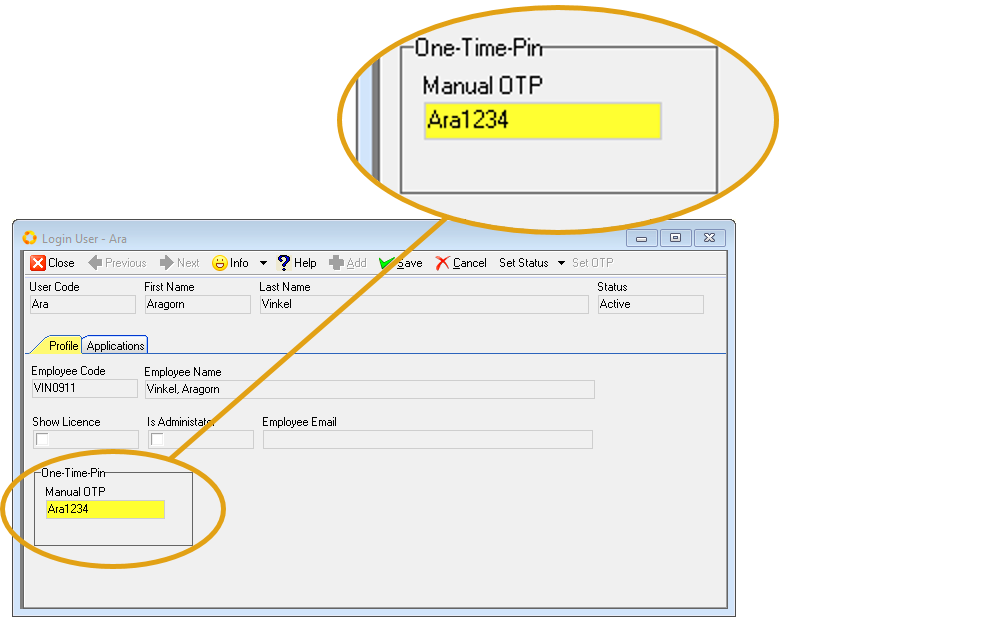
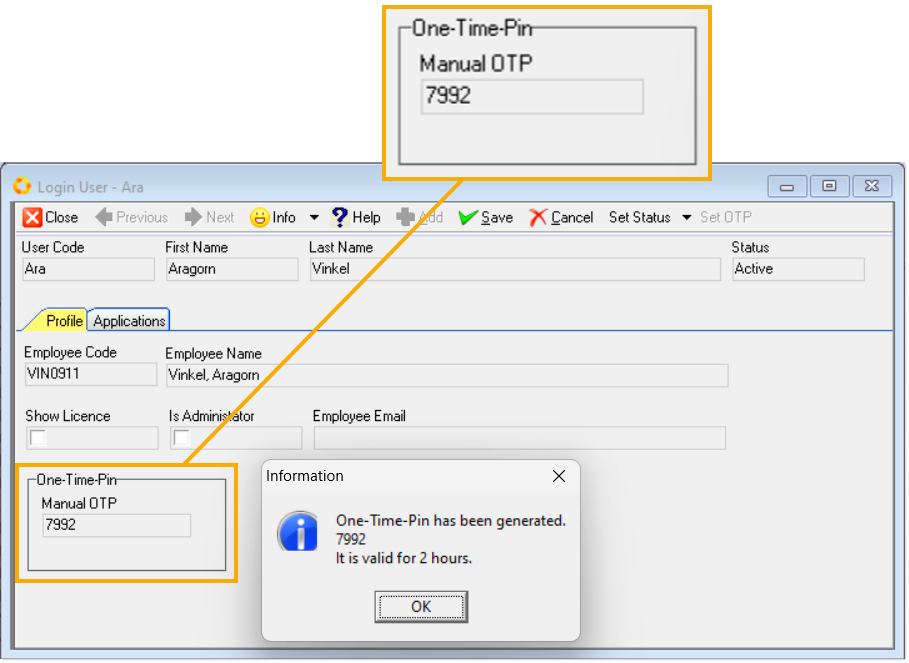
Update Login Users & Employee Position Docs

Changed region(s): [[0.0, 0.0, 1.0, 1.0]]

diff --git a/docs/POS-001.md b/docs/POS-001.md
@@ -36,12 +36,6 @@ The **Position - CEO** screen is displayed.
 
 5.  If needed, change the **Position Name** and **Position Description** as relevant to your company hierarchy, and then click the **Save** button.  
 
-:::important  
-Once saved, the **Task Code** TAB becomes accessible.  
-
-The process of defining Employee Tasks and the associated Task Codes is detailed in the document titled **["Task Codes"](https://sense-i.co/docs/TSKCDE001)**.  
-:::	 
-
 6.  Click the **Activate** button on the form Action Bar.  
 
 7.  Then click the **Close** button.  
@@ -62,11 +56,57 @@ The **Add New Position** screen is displayed.
 
 3. Enter the position description in the **Position Description** field.  
 
-4.  Click the **Save** button, and then click the **Activate** button on the form Action Bar.  
+4.  Click the **Save** button on the form Action Bar.   
+ 
+:::important  
+Once saved, the **Task Code** TAB becomes accessible.
 
-5.  Click the **Close** button to return to the Position grid screen.  
+The process of defining Employee Tasks and the associated Task Codes is detailed in the document titled **["Task Codes"](https://sense-i.co/docs/TSKCDE001)**.  
 
-![](../static/img/docs/POS-001/image07.png)  
+Once all employee Task Codes have been defined, you can link various tasks to the employee position.  
+:::  
+
+5.  Click the **Task Code** TAB.  
+
+![](../static/img/docs/POS-001/image20.png)  
+
+6.  Click the **Link** button.  
+
+The Task Code grid list screen is displayed.  
+
+![](../static/img/docs/POS-001/image21.png)  
+
+7.  Click on the task you want to link to the position.  
+
+8.  Click the **Select** button.  
+  
+:::tip  
+To link multiple tasks, hold down the control key on the keyboard and click on all the tasks you want to link to the position, then click the **Select** button.  
+
+![](../static/img/docs/POS-001/posi-task.gif)  
+
+:::  
+
+The program will close the Task Code screen and display the tasks you have selected to add to the Position.  
+
+![](../static/img/docs/POS-001/image23.png)  
+
+:::important  
+The task codes you link to an employee position determines the list of tasks from which the employee can select when logging tasks against jobs in the **Job Tracker** application.  
+
+![](../static/img/docs/POS-001/image22.png)  
+
+:::  
+
+Once all relevant tasks have been linked to an Employee Position;
+
+9.  Click on the **Position** TAB, then  
+
+10. Click the **Activate** button on the form Action Bar.  
+
+11.  Click the **Close** button to return to the Position grid list screen.  
+
+![](../static/img/docs/POS-001/posi-save.gif)  
 
 Repeat the steps above to add all Employee Positions in the company.  
 
@@ -79,6 +119,10 @@ This information can now be used to link Department Positions when defining Comp
 
 Refer to the documents titled **["Company Departments"](https://sense-i.co/docs/DPMNT001)** and **["Capture Employee Information"](https://sense-i.co/docs/SAF1204)**.  
 :::	 
+
+___
+
+**This is the end of the procedure.**
 
 
 

diff --git a/docs/CNF-003.md b/docs/CNF-003.md
@@ -221,33 +221,21 @@ The **Login User - _User Code_** screen is displayed.
 
 ![](../static/img/docs/CNF-003/image20.png)  
 
-The **One-Time-Pin** section now becomes available. 
-
-5.  Enter a unique One-Time-Pin in the **Manual OTP** field.  
+The system automatically generates a unique OTP. 
 
 ![](../static/img/docs/CNF-003/image21.png)  
 
 :::important  
-The Manual OTP can be any combination of characters, special characters and/or numbers.  
-
-It is important to note that the **One-Time-Pin is Case Sensitive**.  
-:::
-
-6.  Click the **Save** button on the form Action Bar.  
-
-:::important  
 The One-Time-Pin is only valid for a certain time.  
-
-![](../static/img/docs/CNF-003/image22.png)  
-
-7.  Click the **OK** button to close the Information dialogue box.  
 
 If the OTP is not used within the time period, the Login User would need to request a new OTP and the above steps would need to be repeated.  
 :::
 
-8.  The One-Time-Pin can now be communicated to the SEMS User / Employee.  
+5.  Click the **OK** button to close the Information dialogue box.  
 
-9. Click the **Close** button to exit the Login User screen(s).  
+6.  The One-Time-Pin can now be communicated to the SEMS User / Employee.  
+
+7. Click the **Close** button to exit the Login User screen(s).  
 
 **This is the end of this procedure.**
 
